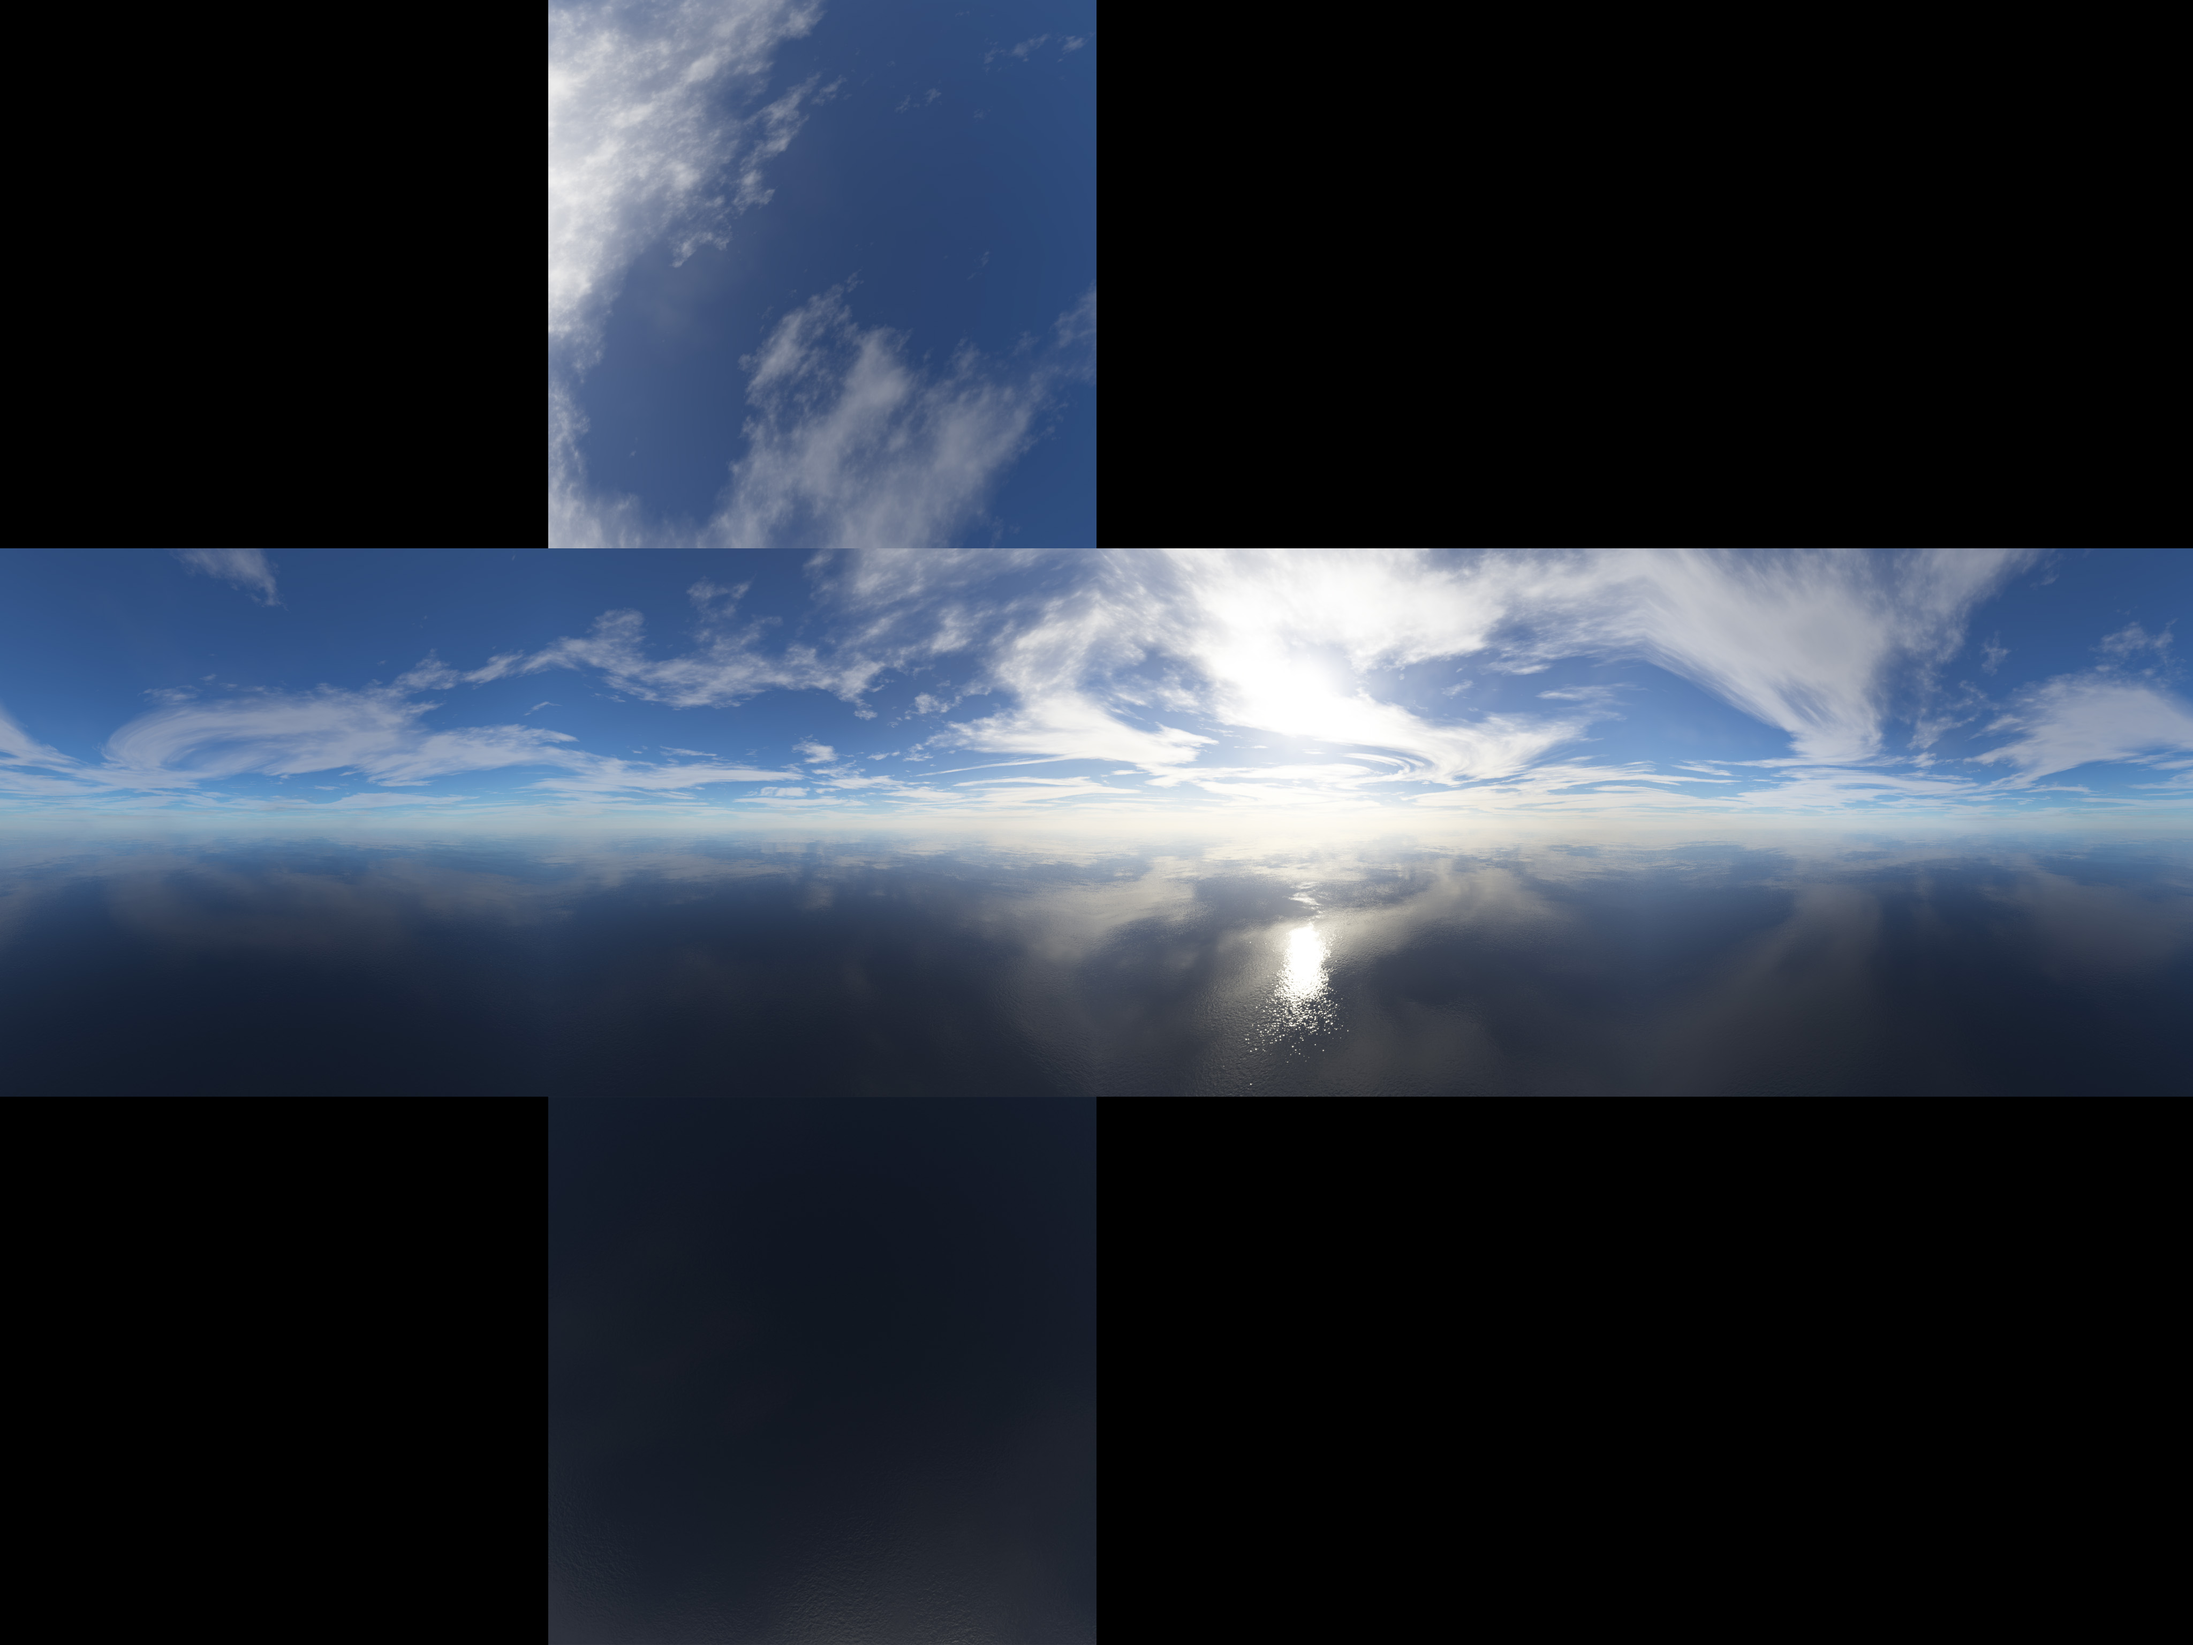
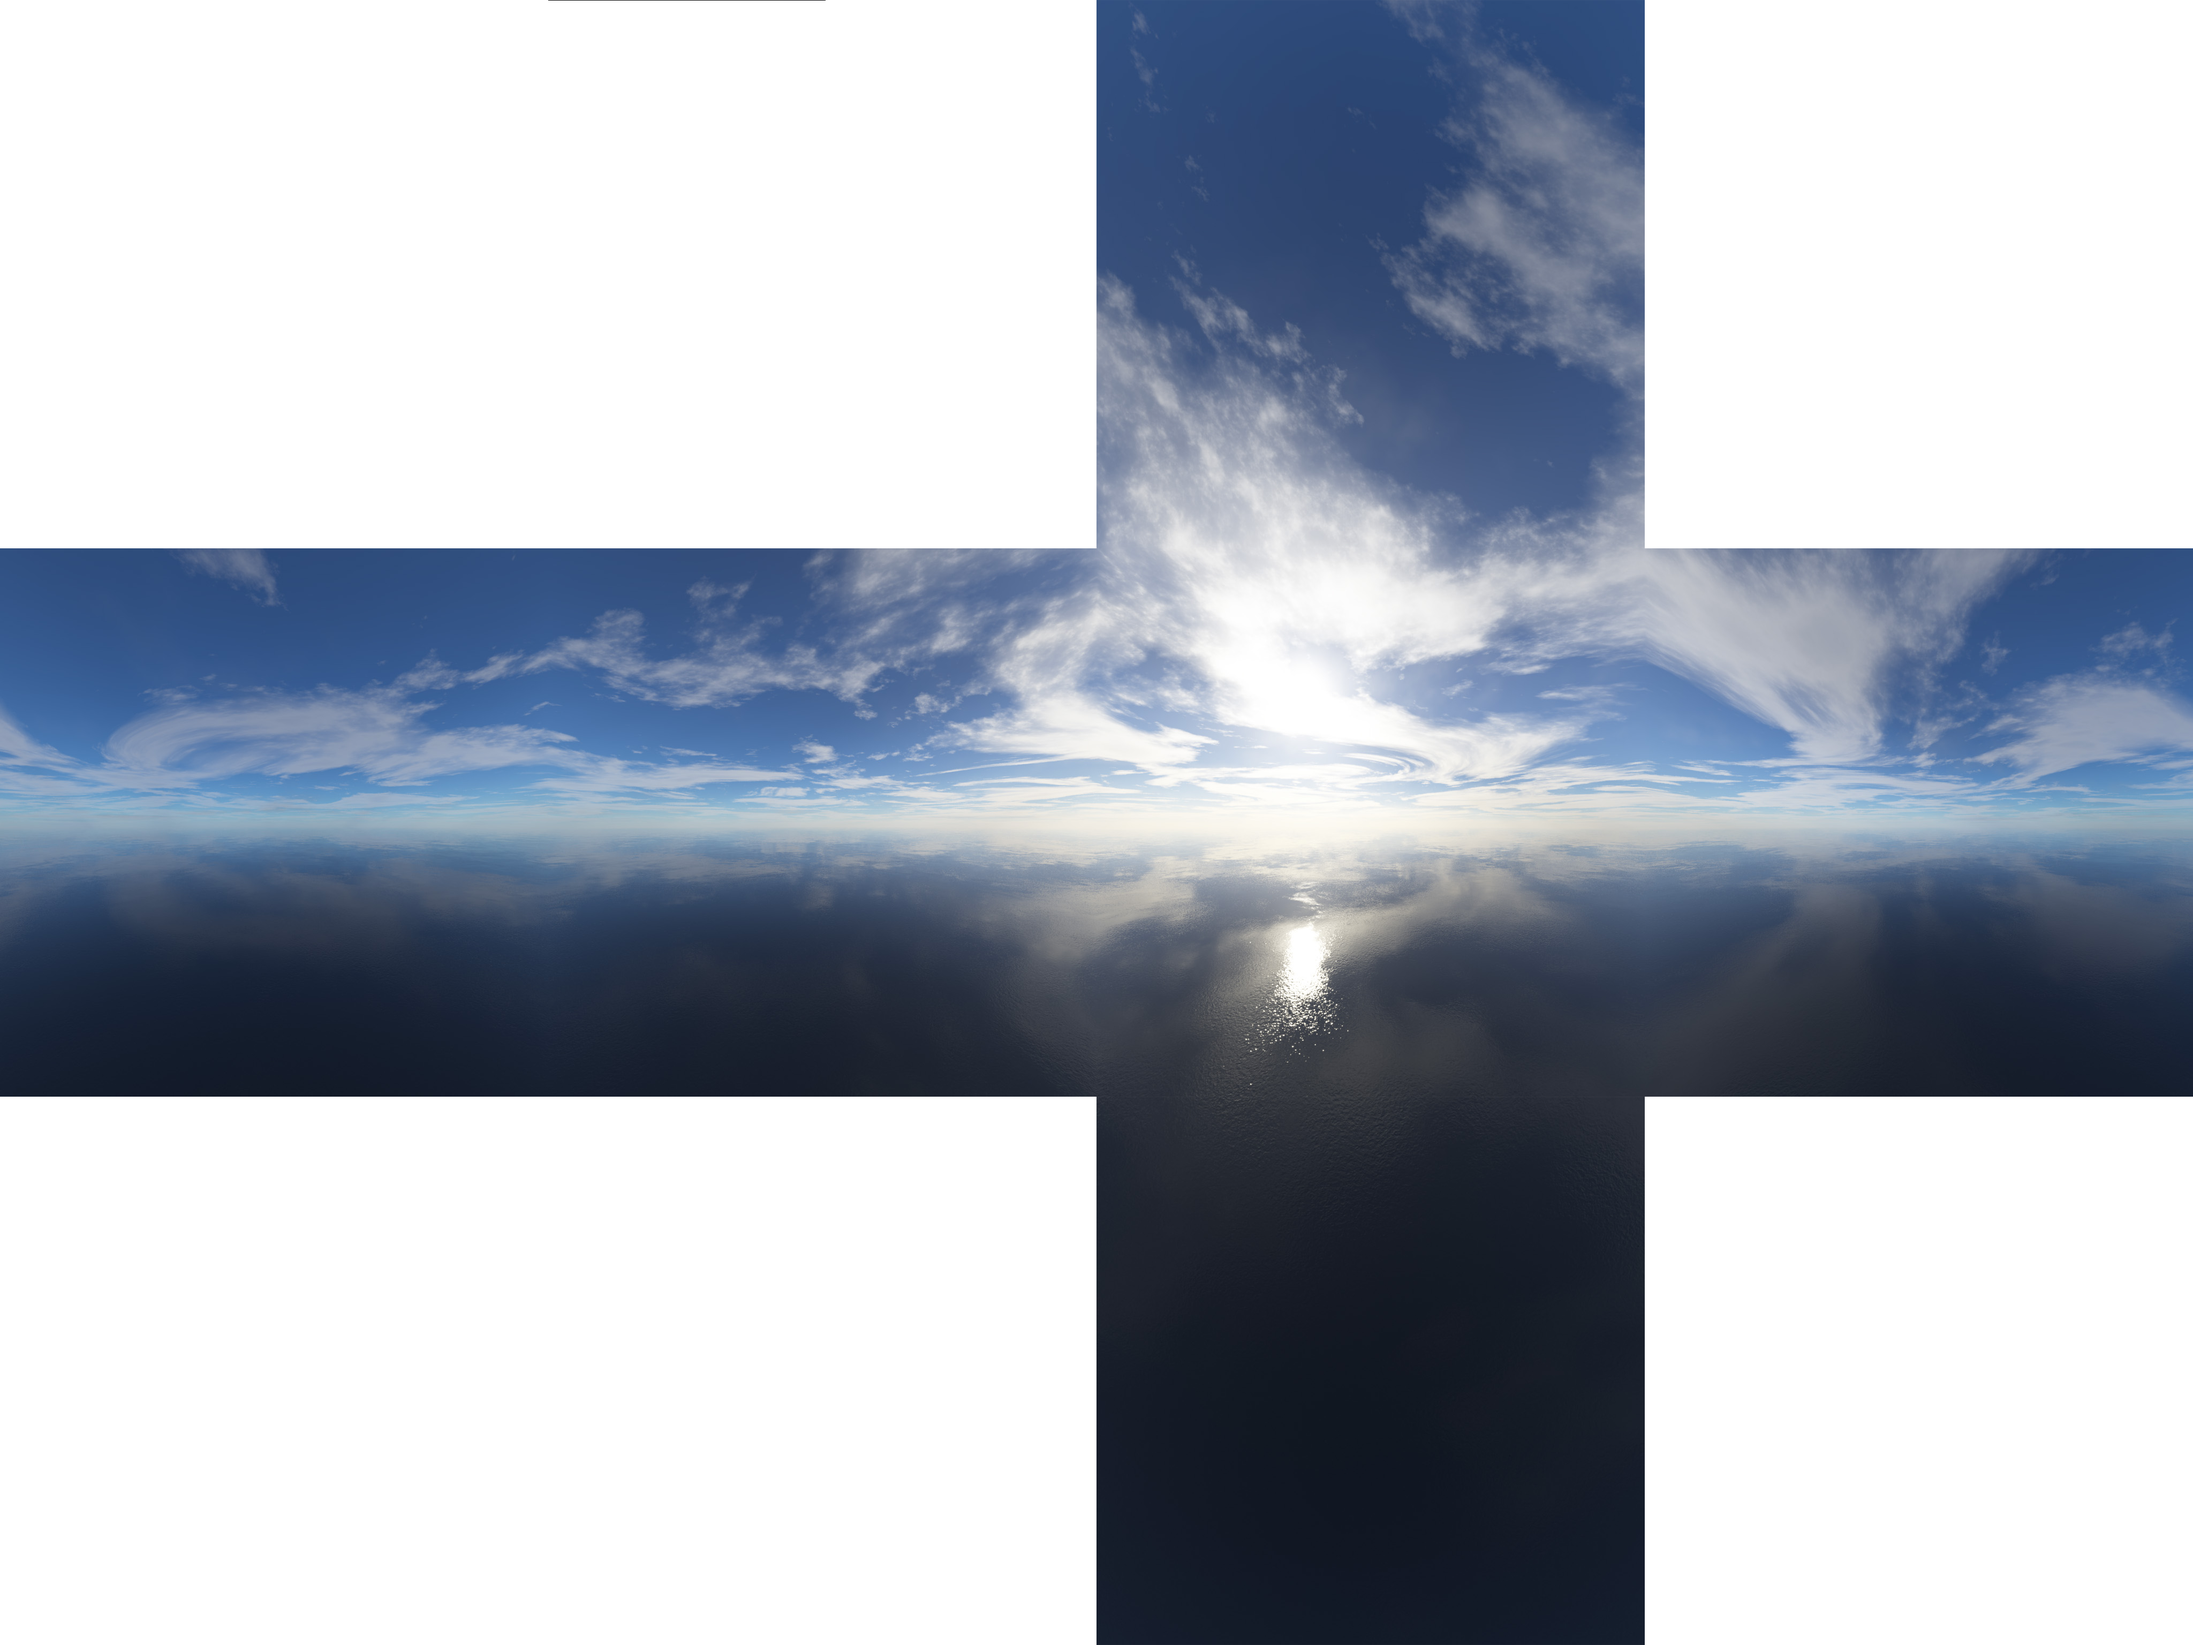
Fix Skybox once more. Now better. Make reflection only .4 effective.

diff --git a/src/scene_node.cpp b/src/scene_node.cpp
@@ -130,7 +130,7 @@ ApplyResult SceneNode::apply(shared_ptr<Scene> scene, unsigned int level, hit_re
 
     // Add relection only if in the illumination model
     if(hit.material.getIl() >= 3 && level < MAX_TRACE_LEVELS) {
-        result.reflectedColor = applyReflection(scene, hit, level, testray);
+        result.reflectedColor = .4f * applyReflection(scene, hit, level, testray);
     }
 
     // Add refraction only if in the illumination model
@@ -157,7 +157,7 @@ inline ApplyResult applyDirect(shared_ptr<Scene> scene, hit_result hit, unsigned
 
     // Get the direction to the light source
     Lm = light->position - hit.hitPosition;
-    float distance = Lm.normalize();
+    float distance [[gnu::unused]] = Lm.normalize();
 
     // See if this point is in shadow. If it is, do not apply diffuse and specular.
     if(inShadow(scene, hit, light))

diff --git a/src/texture.cpp b/src/texture.cpp
@@ -18,10 +18,10 @@ Vector3f Texture::getFromFace(Texture::Face face, float xf, float yf) {
         x = (((xf *size) + size) /2) + 3 * size;
         y = (((yf *size) + size) /2) + size;
     } else if (face == FACE_TOP) {
-        x = (((xf *size) + size) /2) + size;
+        x = (((xf *size) + size) /2) + size * 2;
         y = (((yf *size) + size) /2);
     } else if (face == FACE_BOTTOM) {
-        x = (((xf *size) + size) /2) + size;
+        x = (((xf *size) + size) /2) + size * 2;
         y = (((yf *size) + size) /2) + size * 2;
     } else
         return Vector3<float>(0,0,0);

diff --git a/src/raytracing.cpp b/src/raytracing.cpp
@@ -135,7 +135,7 @@ void Raytracer::init(void) {
     // and possibly transformation matrices
     scene->prepare();
 
-    texture = new Texture("resource/Skybox.png", 1024+512, 1024+512, 1024);
+    texture = new Texture("resource/Skybox.png", 1024+1024+512, 1024+512, 1024);
     skybox = new Skybox(texture);
 }
 
